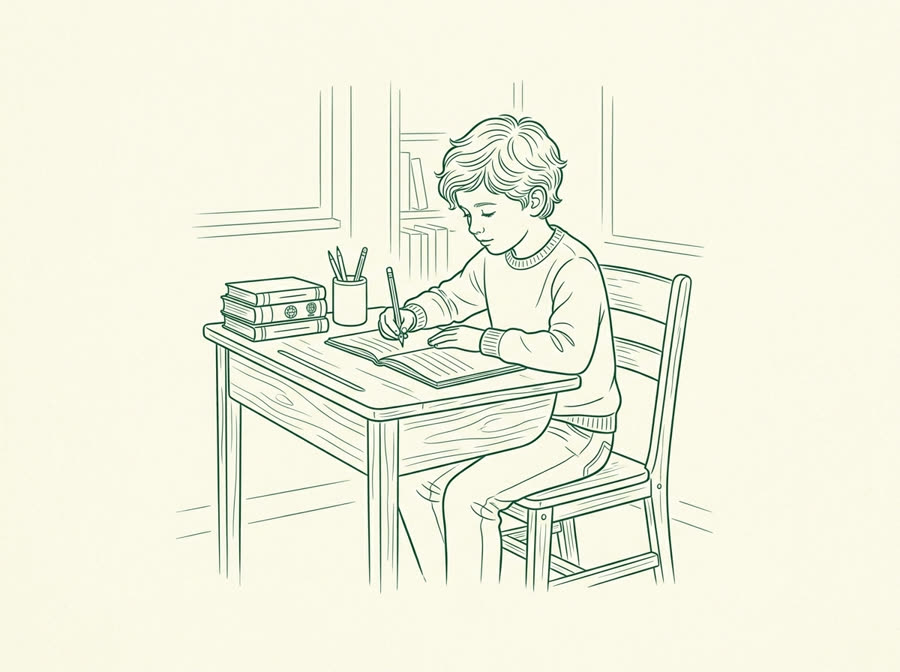
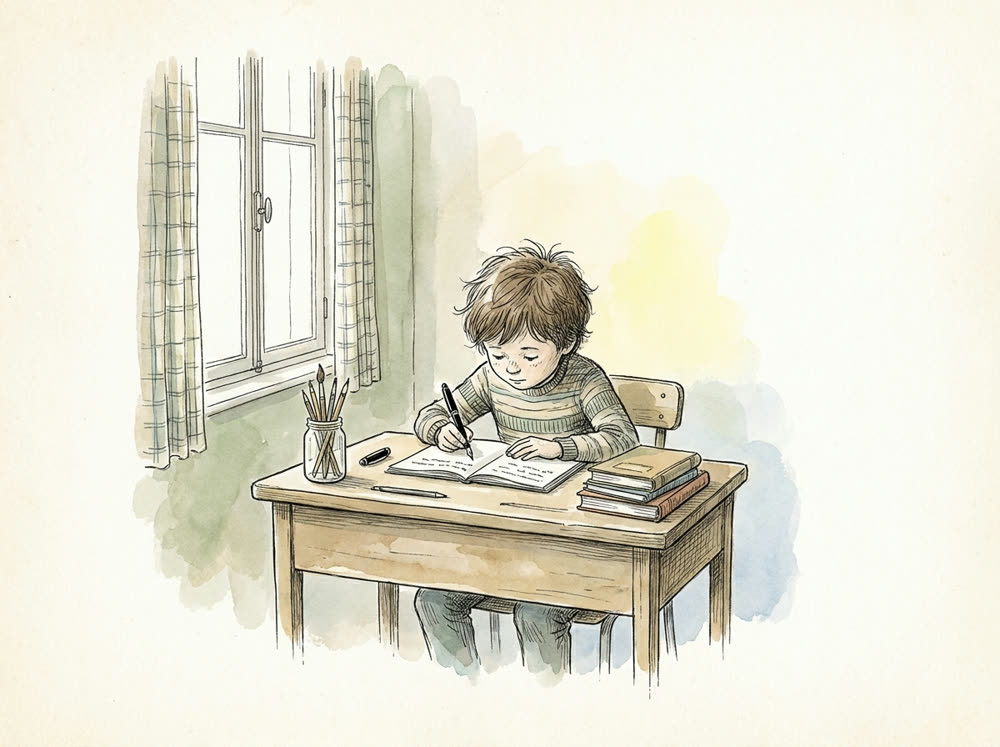
1.º Ciclo: refazer as 2 ilustrações em aguarela (unificar com o resto do site)
As únicas 2 ilustrações que restavam no estilo antigo a traço verde passam a
aguarela (Sempé + washes suaves), registo sóbrio próprio do 1.º ciclo. Site
inteiro agora numa só linguagem visual.

diff --git a/index.html b/index.html
@@ -854,8 +854,8 @@
         <p class="pciclo-mote">Rigor não é o contrário de felicidade — é o que a torna duradoura.</p>
       </div>
       <div class="pciclo-ilu">
-        <img src="assets/ilustracoes/web/pciclo-estudo.jpg" alt="Ilustração a traço: aluno do 1.º ciclo a escrever no caderno">
-        <img src="assets/ilustracoes/web/pciclo-ciencia.jpg" alt="Ilustração a traço: alunos a observar uma planta e a tomar notas">
+        <img src="assets/ilustracoes/web/pciclo-estudo.jpg" alt="Ilustração em aguarela: aluno do 1.º ciclo concentrado a escrever no caderno">
+        <img src="assets/ilustracoes/web/pciclo-ciencia.jpg" alt="Ilustração em aguarela: dois alunos a observar uma plântula com uma lupa e a tomar notas">
       </div>
     </div>
   </section>